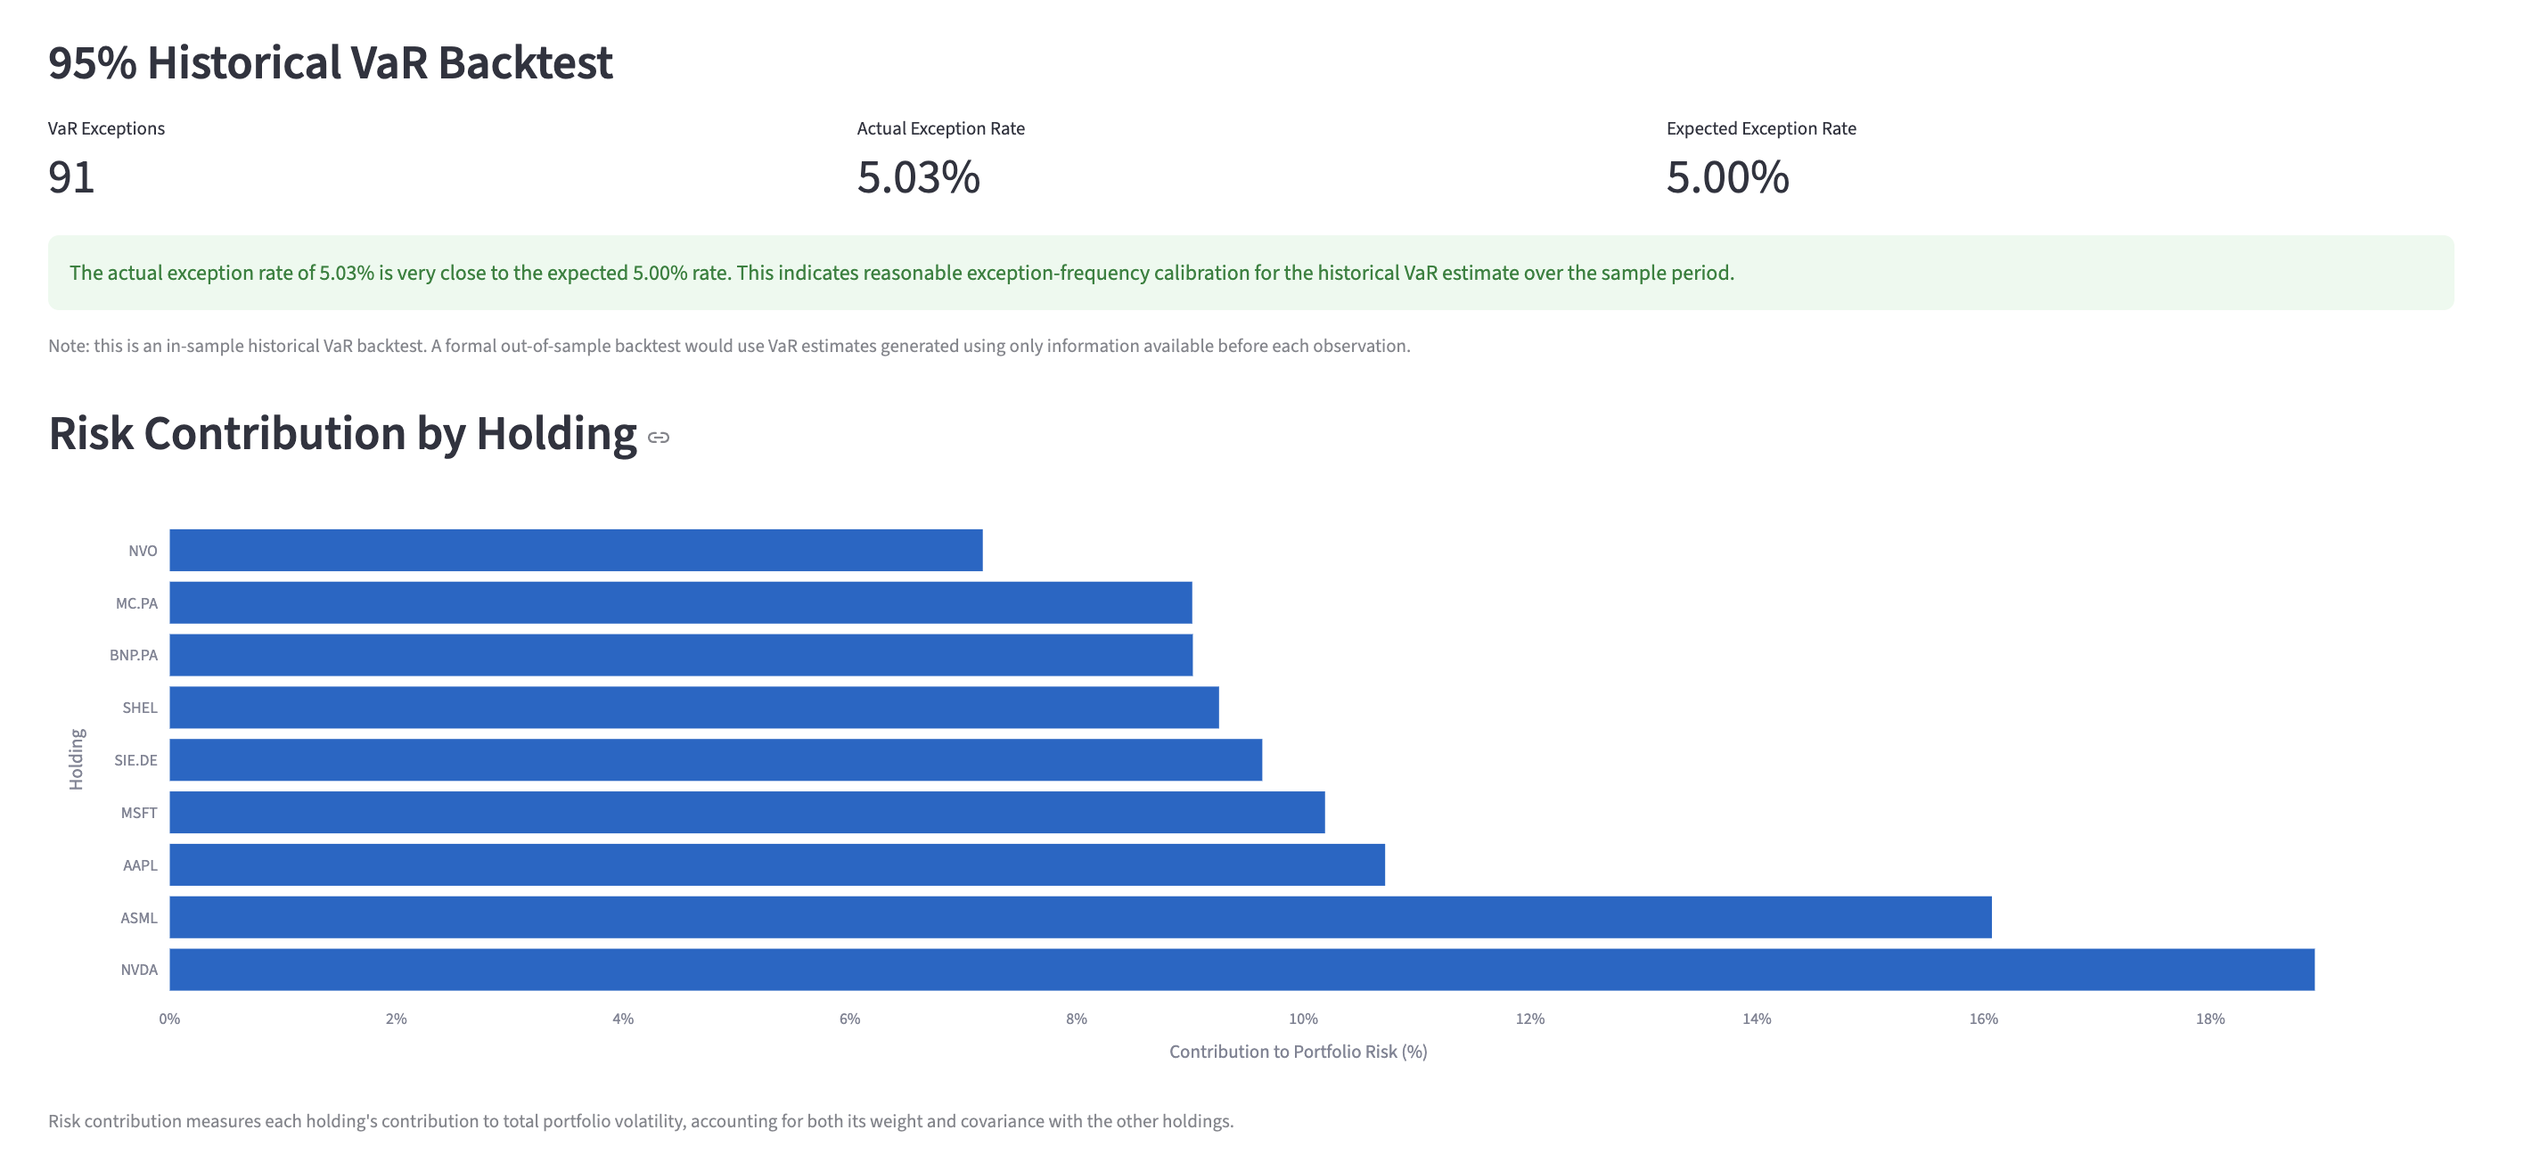
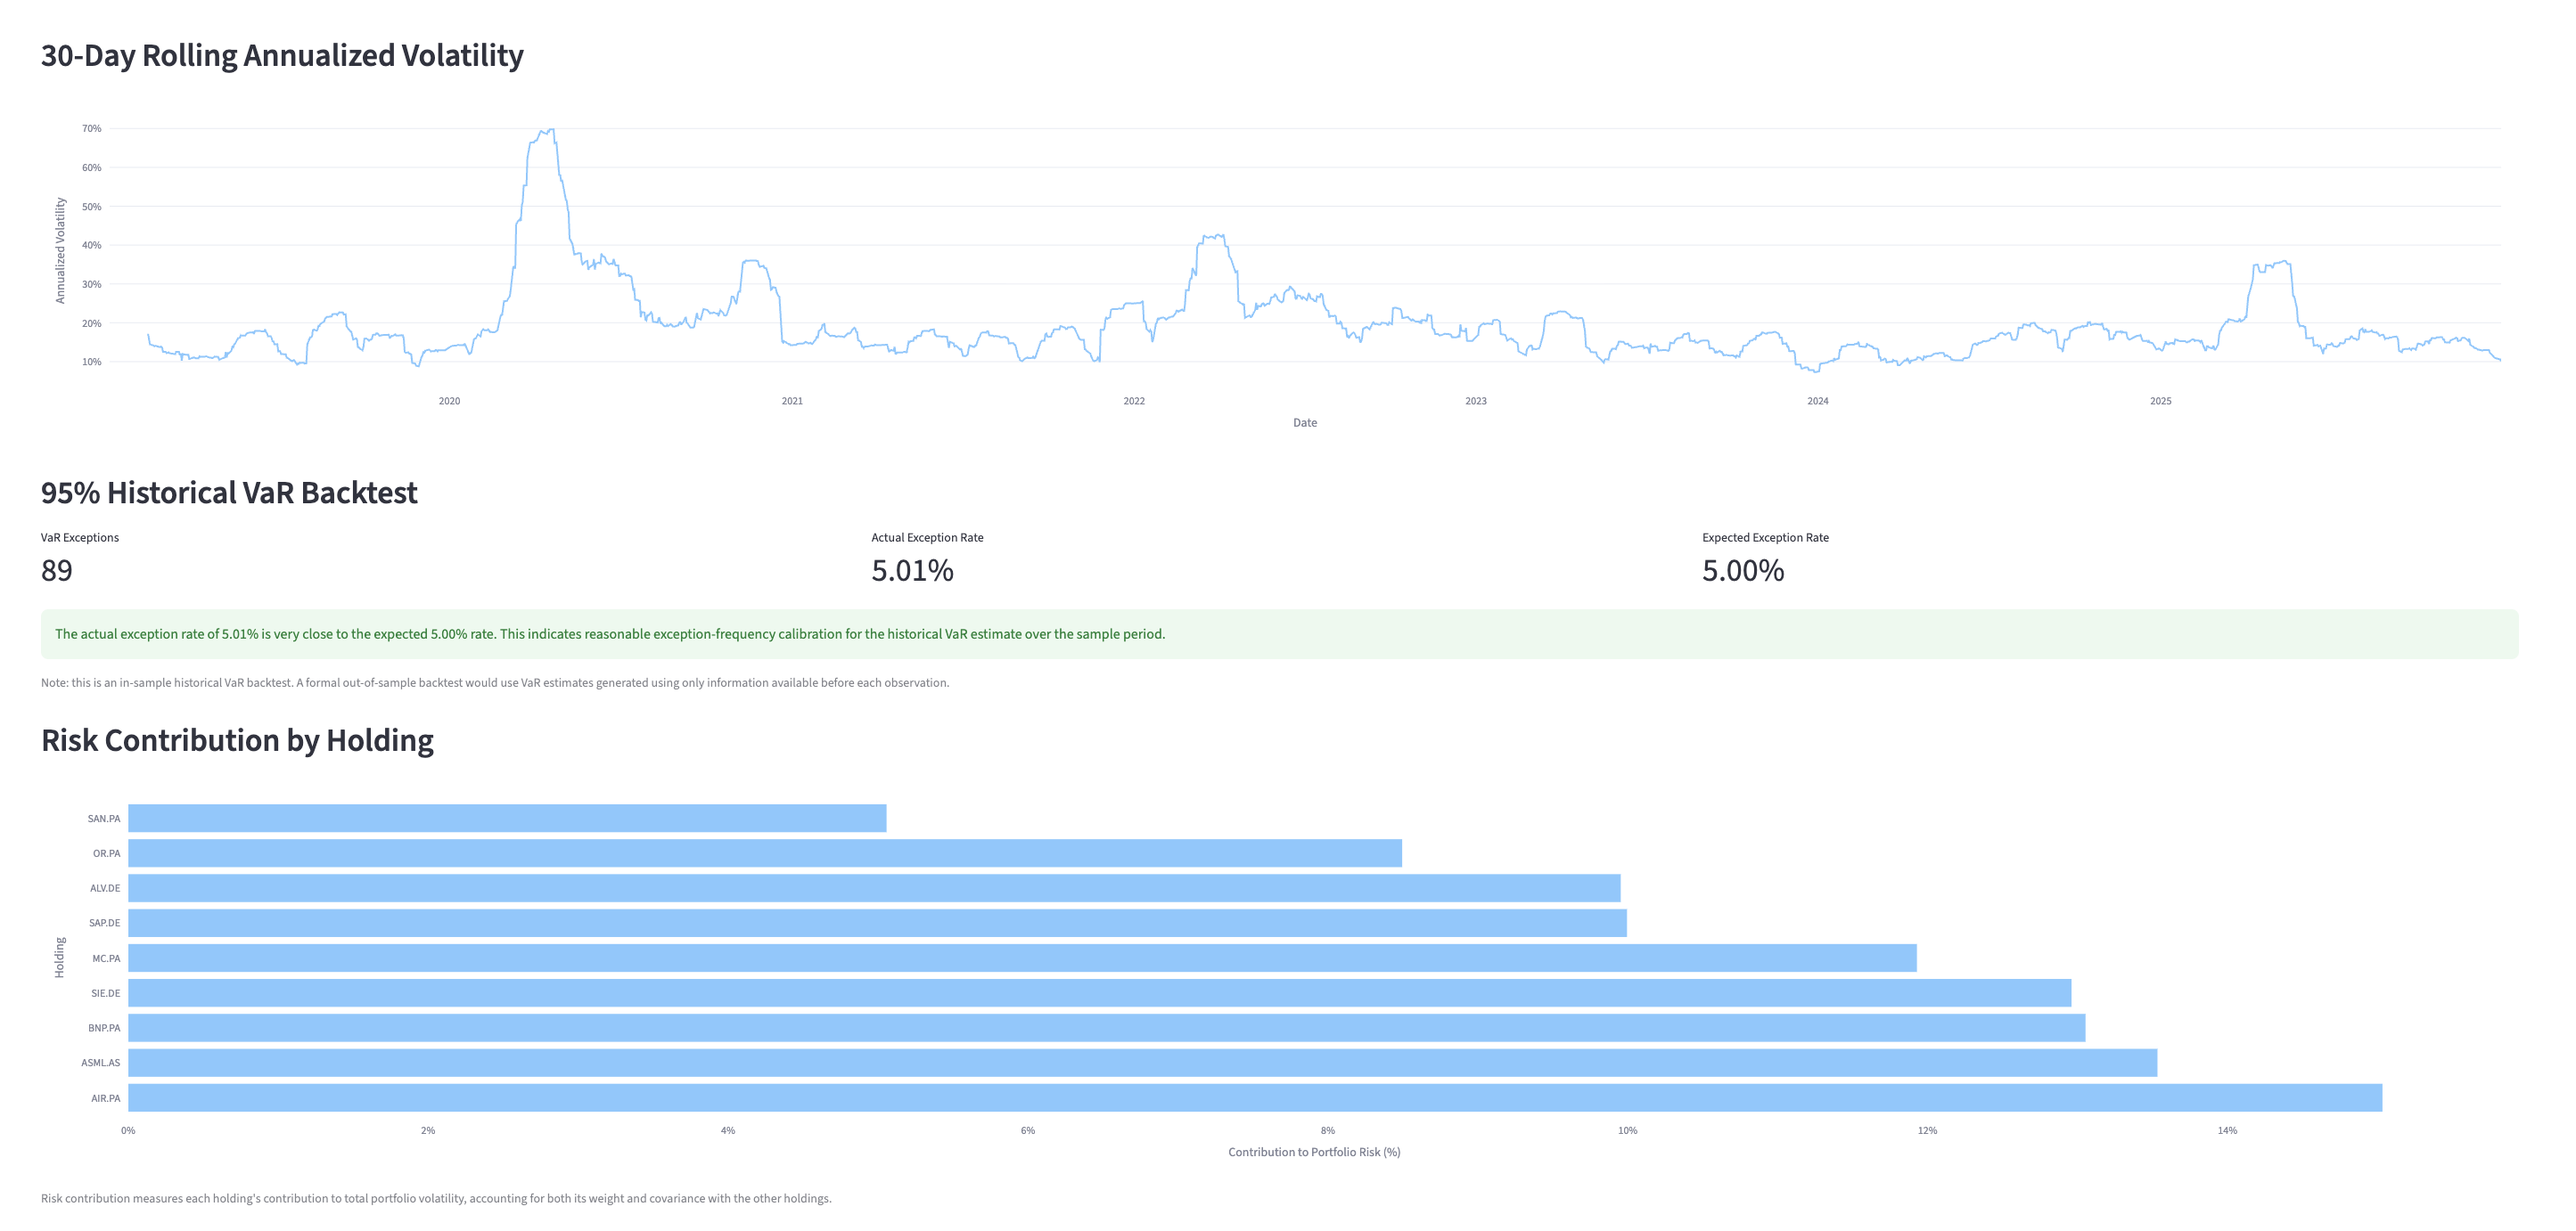
Update README results and dashboard screenshots

diff --git a/README.md b/README.md
@@ -63,22 +63,28 @@ The portfolio is analysed from the perspective of an **unhedged euro-based inves
 
 The dashboard presents key portfolio performance and risk indicators, including annualized return, annualized volatility, Sharpe ratio, maximum drawdown, historical VaR, CVaR, and supporting visualizations.
 
-The dashboard reports the following results for the portfolio's historical sample (2 January 2019 to 30 December 2025):
-
-> **Note:** the results below and the dashboard screenshots will be updated after the notebooks have been run on the new EUR-denominated European portfolio. The screenshots currently show the previous version of the portfolio.
+The dashboard reports the following results for the portfolio's historical sample (2 January 2019 to 30 December 2025). The figures are calculated from the committed data files in `data/` and match Notebooks 2 and 3.
 
 | Metric | Result |
 |---|---:|
-| Annualized return | To be updated |
-| Annualized volatility | To be updated |
-| Sharpe ratio | To be updated |
-| Maximum drawdown | To be updated |
-| 95% Historical VaR (1-day) | To be updated |
-| 95% CVaR / Expected Shortfall | To be updated |
+| Annualized mean return (arithmetic: mean daily return × 252; not CAGR) | 19.52% |
+| Annualized volatility | 21.08% |
+| Sharpe ratio | 0.88 |
+| Maximum drawdown | −39.28% |
+| Portfolio growth of €1 | €3.38 |
+| 95% Historical VaR (1-day) | 1.85% loss |
+| 95% CVaR / Expected Shortfall (1-day) | 3.14% loss |
+| 95% VaR exceptions | 89 (5.01% of days) |
+| Portfolio beta vs EURO STOXX 50 ETF (net return proxy, EUR) | 1.05 |
+| Benchmark growth of €1: EURO STOXX 50 ETF (net return proxy, EUR) | €2.36 |
+
+**VaR and CVaR sign convention.** Notebook 3 reports VaR and CVaR as returns, so losses appear as negative numbers (−1.85% and −3.14%). The dashboard and the table above show the same values as positive loss amounts (1.85% and 3.14%). The meaning is identical.
+
+**Benchmark comparison.** The portfolio's higher growth than the benchmark should be read together with the limitations in section 9: the stocks' adjusted prices reinvest dividends gross while the benchmark ETF follows a net return index and deducts its fee, the holdings were selected retrospectively, and the portfolio's beta of 1.05 means it carried more market risk than the benchmark.
 
 ### VaR Backtesting
 
-The 95% historical VaR backtest counts the days on which the portfolio's return was worse than the VaR threshold and compares this exception rate with the expected rate of 5%. Because the threshold is estimated from the same sample (an in-sample test), the exception rate is close to 5% by construction; it does not, by itself, establish that the VaR model is reliable under all market conditions.
+The 95% historical VaR backtest counts the days on which the portfolio's return was at or below the VaR threshold and compares this exception rate with the expected rate of 5%. Over the sample, there were **89 exceptions out of 1,777 daily returns (5.01%)**, against an expected 5.00%. Because the threshold is estimated from the same sample (an in-sample test), the exception rate is close to 5% by construction; it does not, by itself, establish that the VaR model is reliable under all market conditions. A formal out-of-sample backtest would estimate each day's VaR using only data available before that day.
 
 *These are historical sample results, not forecasts or guarantees of future performance.*
 
@@ -91,7 +97,7 @@ The 95% historical VaR backtest counts the days on which the portfolio's return 
 ![VaR Backtesting and Risk Contribution](images/var_backtest_risk_contribution.png)
 
 #### 3. COVID-19 Stress Testing
-![COVID-19 Stress Test](images/covid_stress_test.png)
+![COVID-19 Stress Testing](images/covid_stress_test.png)
 
 #### 4. Benchmark Analysis
 ![Benchmark Analysis](images/benchmark_analysis.png)
@@ -103,7 +109,7 @@ The 95% historical VaR backtest counts the days on which the portfolio's return 
 - **Dates and missing values.** The stocks and the benchmark are kept on their **common trading dates**: only dates on which all nine stocks and the benchmark have a price are used. Dates on which one exchange was closed (for example Xetra on 24 and 31 December) are removed, so the next daily return covers two days. No missing price is filled or estimated.
 - The portfolio is constructed using equal weights across the nine holdings, applied to each day's returns (the portfolio is rebalanced to equal weights daily, with no transaction costs).
 - Annualized return is the mean daily return × 252; annualized volatility is the daily standard deviation × √252.
-- **Risk-free rate.** The Sharpe ratio uses a constant risk-free rate of 1.05% per year: a full-period approximation equal to the simple average of the annual €STR (euro short-term rate) averages for 2019–2025. €STR began on 2 October 2019, so the 2019 figure covers only October–December but counts as a full year in the average. Using the ECB's pre-€STR for January–September 2019 (estimated as EONIA minus the 8.5 basis-point spread published by the ECB) gives approximately 1.06% instead; the difference changes the Sharpe ratio by less than 0.001, so 1.05% is kept. Sharpe ratio = (annualized return − 1.05%) ÷ annualized volatility, which is equivalent to subtracting 1.05% ÷ 252 from every daily return.
+- **Risk-free rate.** The Sharpe ratio uses a constant risk-free rate of 1.05% per year: a full-period approximation equal to the simple average of the annual €STR (euro short-term rate) averages for 2019–2025. €STR began on 2 October 2019, so the 2019 figure covers only October–December but counts as a full year in the average. Using the ECB's pre-€STR for January–September 2019 (estimated as EONIA minus the 8.5 basis-point spread published by the ECB) gives approximately 1.06% instead; the difference changes the Sharpe ratio by less than 0.001, so 1.05% is kept. Sharpe ratio = (annualized return − 1.05%) ÷ annualized volatility, which is equivalent to subtracting 1.05% ÷ 252 from every daily return. The €STR (including the pre-€STR) is published by the European Central Bank: [Overview of the euro short-term rate (€STR), ECB](https://www.ecb.europa.eu/stats/financial_markets_and_interest_rates/euro_short-term_rate/html/eurostr_overview.en.html); the historical daily data are available in the ECB Data Portal. The annual averages used are listed in Notebook 2.
 - **Benchmark.** The Xtrackers EURO STOXX 50 UCITS ETF 1C (`XESC.DE`, Xetra, EUR), an accumulating fund that tracks the EURO STOXX 50 Net Return index. It is used as an investable proxy for the index and labelled "EURO STOXX 50 ETF (net return proxy, EUR)". All nine holdings are members of the EURO STOXX 50.
 - Historical VaR estimates the loss threshold at the 95% confidence level; CVaR estimates the average loss beyond that threshold.
 - VaR backtesting compares observed portfolio losses against the estimated VaR threshold.
@@ -123,20 +129,22 @@ The 95% historical VaR backtest counts the days on which the portfolio's return 
 ## 7. Project Structure
 
 ```text
-Portfolio_Risk_Dashboard/
+portfolio-risk-dashboard/
 ├── data/
 │   ├── adj_close.csv      # stock prices in EUR (created by Notebook 1)
 │   └── benchmark.csv      # EURO STOXX 50 ETF benchmark prices in EUR (created by Notebook 1)
-├── images/
+├── images/                # dashboard screenshots (current files show an earlier project version; to be replaced)
+│   ├── benchmark_analysis.png
+│   ├── covid_stress_test.png
+│   ├── portfolio_overview.png
+│   └── var_backtest_risk_contribution.png
 ├── notebooks/
 │   ├── 01_Download_Data.ipynb
 │   ├── 02_Portfolio_Returns.ipynb
 │   └── 03_Risk_Analysis.ipynb
-├── reports/
 ├── src/
 │   ├── dashboard.py
-│   ├── Open_Dashboard.command
-│   └── pages/
+│   └── Open_Dashboard.command
 ├── README.md
 └── requirements.txt
 ```
@@ -144,7 +152,7 @@ Portfolio_Risk_Dashboard/
 ## 8. How to Run the Dashboard
 
 1. Install Python and the packages listed in `requirements.txt`.
-2. Run `notebooks/01_Download_Data.ipynb` to download the data and create the files in `data/`.
+2. The data files in `data/` are already included in the repository, and the results reported in this README are based on these committed files. Running `notebooks/01_Download_Data.ipynb` again re-downloads the data from Yahoo Finance and overwrites them; because Yahoo Finance can revise historical adjusted prices, a new download may change the reported results.
 3. Open a terminal in the project's `src` directory.
 4. Run:
 
@@ -167,6 +175,9 @@ Keep the terminal session running while using the dashboard.
   - **Gross versus net dividends.** The fund follows the **net** return index (dividends reinvested after withholding tax), whereas the stocks' adjusted prices reinvest dividends **gross**. Together with the fee, this means the benchmark's return is held back relative to the stocks, which slightly flatters the portfolio's relative performance. The size of this gap has not been measured in this project; it is plausibly in the region of half a percentage point a year, but this is an estimate, not an exact figure.
   - Volatility, correlation and beta are essentially unaffected, because a small, steady drag barely changes day-to-day return movements.
   - Yahoo Finance uses the fund's Xetra closing price, which can differ slightly from its official net asset value.
+- Survivorship and selection bias: the nine holdings are large, established companies that are current members of the EURO STOXX 50, selected retrospectively and then applied to historical data from 2019. Companies that underperformed, were removed from the index or ceased to exist over the period could not be chosen. The historical results, including the comparison with the benchmark, are therefore likely to be flattered and should not be read as the outcome of a portfolio chosen in January 2019.
+- VaR backtesting is in-sample: the 95% VaR threshold is estimated from the same returns used to count exceptions, so the observed exception rate (5.01%) is close to 5% by construction and does not demonstrate out-of-sample accuracy.
+- Data reproducibility: the reported results are based on the committed CSV files in `data/`. Re-downloading the data from Yahoo Finance may produce different historical adjusted prices and therefore different results.
 - Concentration: the portfolio holds nine stocks from three countries (France, Germany, the Netherlands), so its results are specific to these companies and to the eurozone large-cap market.
 - Risk-free rate: the constant 1.05% is a full-period approximation of €STR, whose annual average ranged from about −0.57% to 3.64% over 2019–2025. The 2019 observation period is incomplete (October–December only); a full-year pre-€STR estimate gives approximately 1.06%.
 - **Benchmark data-quality note:** We identified three consecutive unchanged-price observations for the EURO STOXX 50 ETF proxy (XESC.DE) on 4–6 December 2023 in the Yahoo Finance historical data. These observations have not been independently verified, so it is not yet known whether they reflect genuine market prices or stale data. They were retained in the main dataset pending verification and may affect benchmark volatility, correlation and beta estimates.
